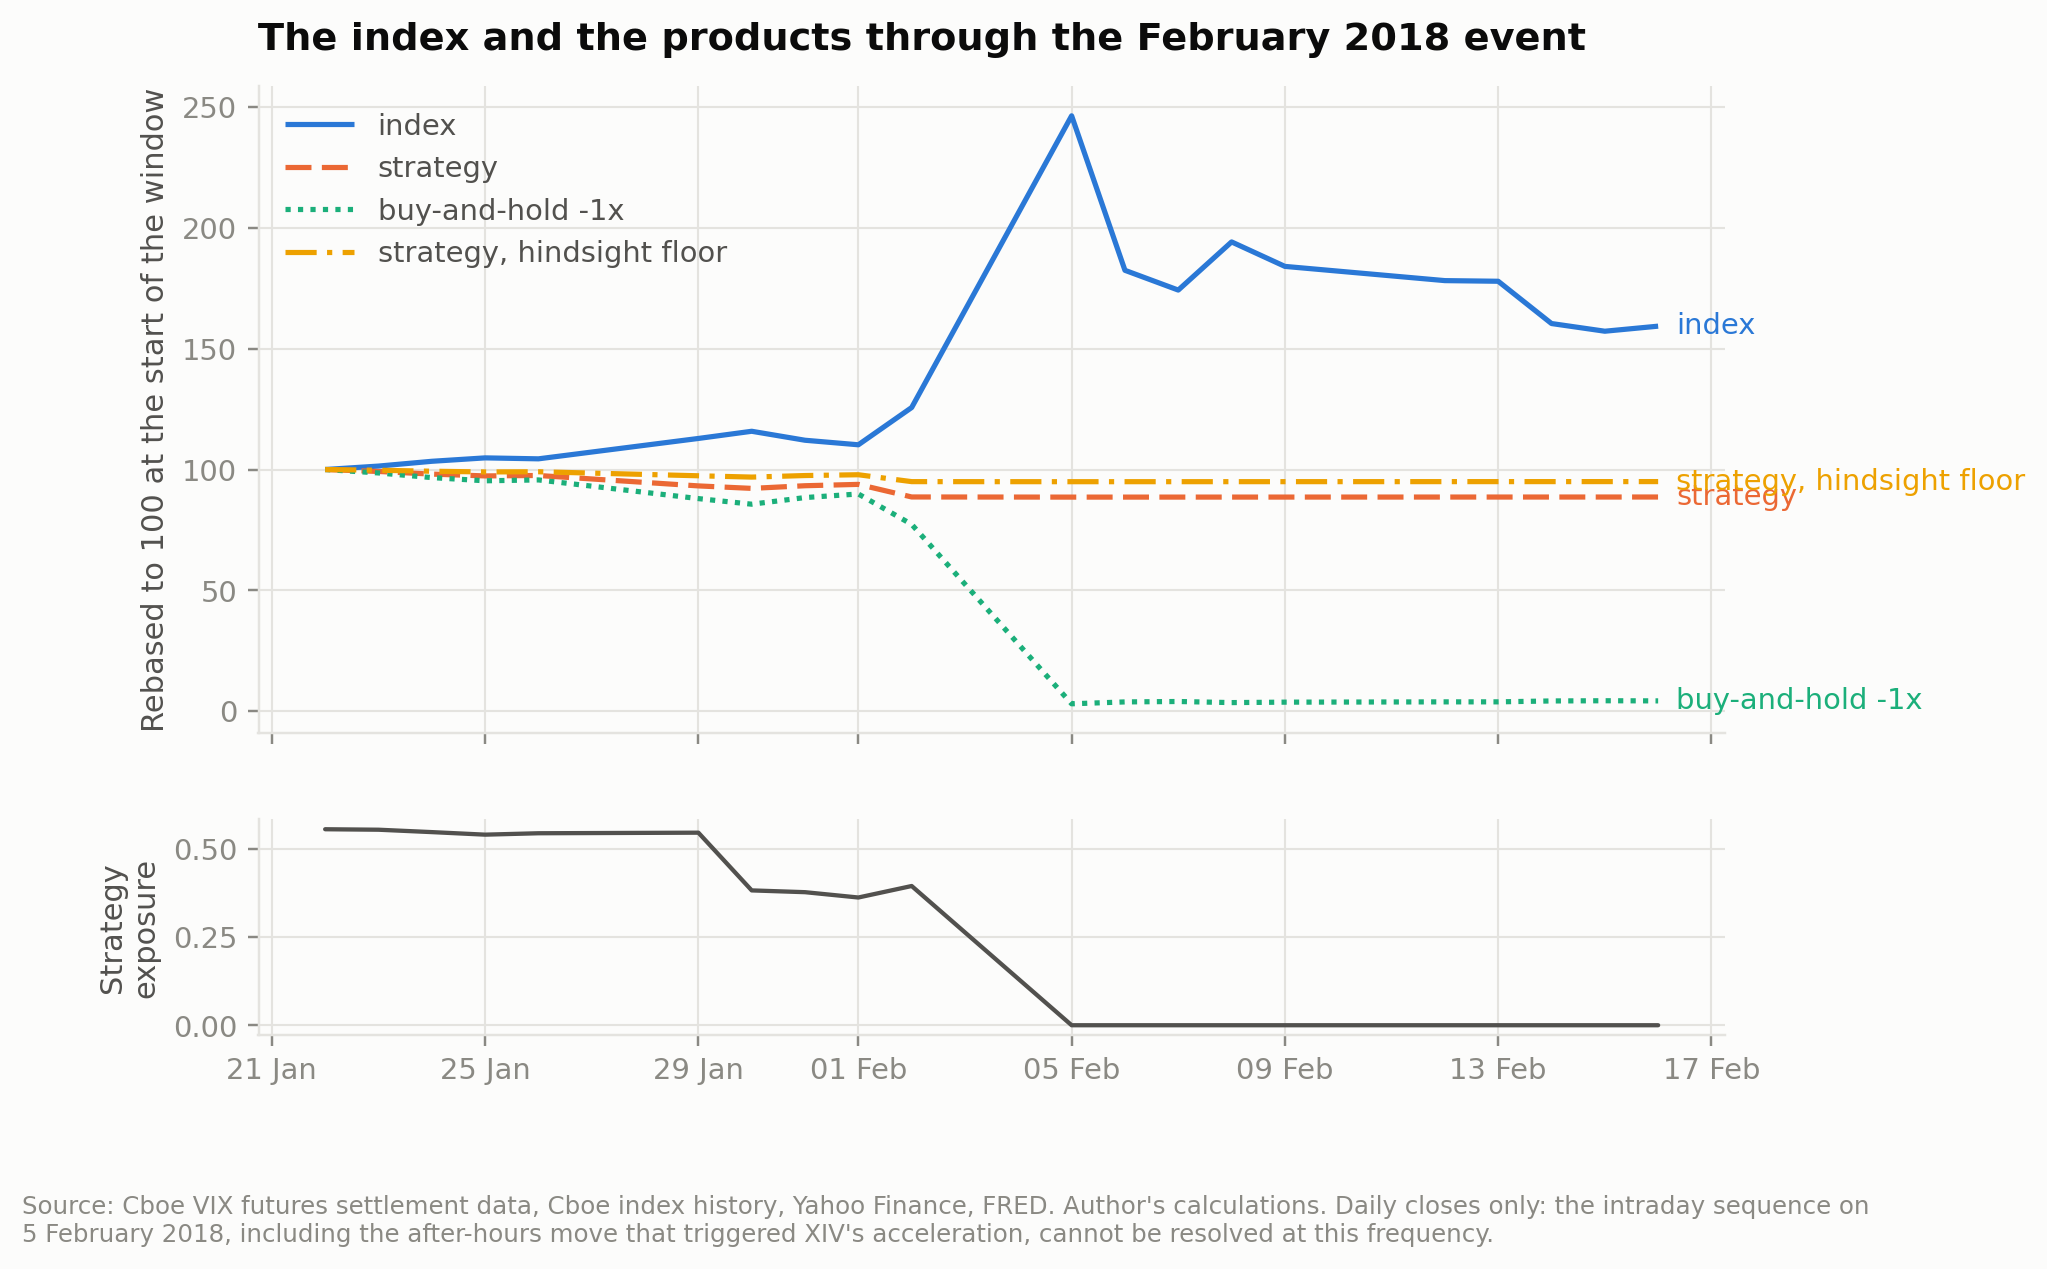
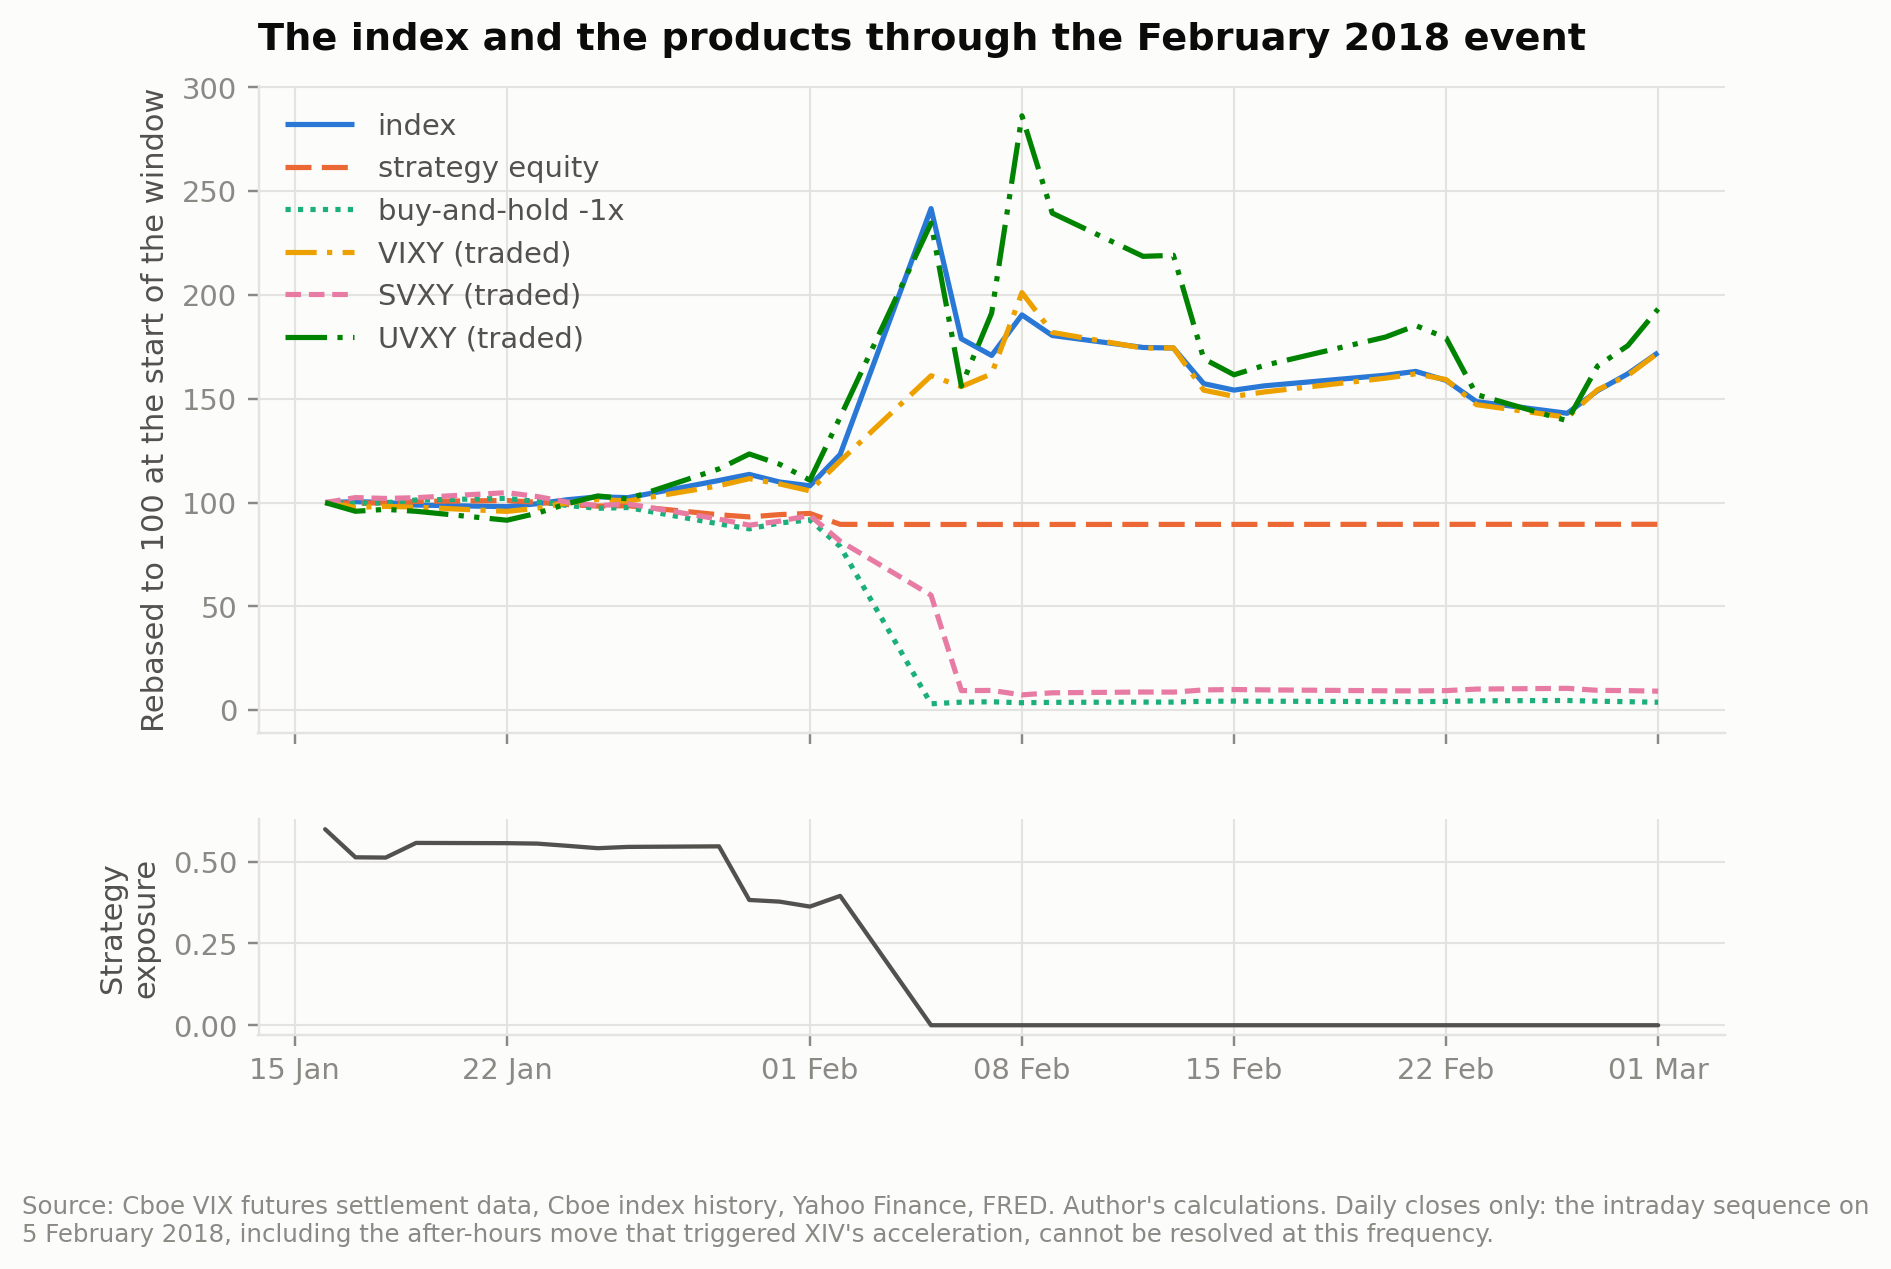
Phase 15: clean-clone reproduction, two defects it found, project log
The reproduction test the phase prompt asks for, run and recorded as V36.
What a clone reproduces: 245 tests, the number check, 20 of 24 figures. What it
does not: anything needing the 338 gitignored raw files - the pipeline stops
with exit code 2 and names the fetch command rather than downloading implicitly.

Two defects found:

1. Three committed figures were not the output of the code that builds them.
   feb2018_detail, rolling_sharpe and weight_and_binding_constraint were last
   written in Phase 11 (9ed5840) while viz/figures.py changed in Phase 14
   (7ca64e4); a full rebuild gave byte-identical output for the other 21 and
   different output for these three. Rebuilt, each read and checked against the
   claims it supports, committed. Second instance in this project of a "the
   script ran, therefore the artefact is current" assumption being wrong.

2. shade_windows placed every stress label on one row, so volmageddon 2018 and
   covid 2020 printed on top of each other. The first fix compared the gap
   between windows against ax.get_xlim() and did nothing, because shade_windows
   runs before the data is plotted and the limits are still matplotlib's default
   (0, 1). The working version defers to draw time and compares rendered text
   extents. New test, mutation-checked: it fails on the pre-fix behaviour.
   The same latent assumption in the open-window branch is recorded as open
   item 8 rather than changed without a case to test it against.
[…]

diff --git a/src/svcarry/viz/style.py b/src/svcarry/viz/style.py
@@ -214,16 +214,47 @@ def shade_windows(ax, windows: "dict[str, tuple]", label: bool = True, alpha: fl
     ``windows`` maps a label to ``(start, end)``; ``end`` may be ``None`` for an
     open window. Shading sits behind the grid so it never competes with the series.
     """
-    for i, (name, (lo, hi)) in enumerate(windows.items()):
+    texts = []
+    for name, (lo, hi) in windows.items():
         x0 = pd.Timestamp(lo)
         x1 = pd.Timestamp(hi) if hi else ax.get_xlim()[1]
         ax.axvspan(x0, x1, color=INK["stress"], zorder=0, alpha=alpha, lw=0)
         if label:
-            ax.annotate(
+            texts.append(ax.annotate(
                 name.replace("_", " "), xy=(x0, 1.0), xycoords=("data", "axes fraction"),
                 xytext=(2, -10), textcoords="offset points", fontsize=8,
                 color=INK["muted"], rotation=0, ha="left", va="top",
-            )
+            ))
+
+    if texts:
+        _stagger_on_draw(ax, texts)
+
+
+def _stagger_on_draw(ax, texts, row_height: float = 11.0) -> None:
+    """Drop a label onto a lower row when it would overlap the one before it.
+
+    The decision needs the rendered width of each label and the final axis limits,
+    and neither exists when ``shade_windows`` is called - it runs before the data is
+    plotted, so ``ax.get_xlim()`` is still matplotlib's default ``(0, 1)``. So the
+    check is deferred to draw time, where both are known, and measured in display
+    coordinates against the actual text extents rather than guessed from a gap
+    threshold in data units.
+    """
+    def place(_event=None):
+        renderer = ax.figure.canvas.get_renderer()
+        for t in texts:                       # measure every label on the top row
+            t.set_position((t.get_position()[0], -10.0))
+        prev_right, prev_row = None, 0
+        for t in texts:
+            box = t.get_window_extent(renderer=renderer)
+            row = 0
+            if prev_right is not None and box.x0 < prev_right:
+                row = 1 - prev_row            # collides: use the other row
+            t.set_position((t.get_position()[0], -10.0 - row_height * row))
+            prev_right, prev_row = box.x1, row
+
+    ax.figure.canvas.mpl_connect("draw_event", place)
+    ax._svcarry_stagger = place               # keep a handle for tests and re-draws
 
 
 def format_date_axis(ax, fmt: str | None = None) -> None:

diff --git a/tests/test_viz.py b/tests/test_viz.py
@@ -23,6 +23,7 @@ from svcarry.viz.style import (
     apply_style,
     greyscale_check,
     series_style,
+    shade_windows,
 )
 
 
@@ -349,3 +350,37 @@ def test_index_vs_products_clips_the_residual_axis_and_says_so():
     assert rax.get_ylim()[0] > -0.6 * 1e4, "the outlier must not set the axis"
     note = " ".join(t.get_text() for t in fig.texts)
     assert "clipped" in note and "6,200" in note.replace("-6,200", "6,200")
+
+
+def test_stress_labels_stagger_when_windows_are_close_together():
+    """volmageddon 2018 and covid 2020 sit close enough on a 2008-2026 axis that one
+    label lands on top of the other. The check runs at draw time, because
+    shade_windows is called before the data is plotted and so cannot know either the
+    axis limits or the rendered width of a label.
+    """
+    import matplotlib.pyplot as plt
+
+    fig, ax = plt.subplots(figsize=(9.5, 4.6))
+    shade_windows(ax, {
+        "gfc_2008": ("2008-09-01", "2008-12-31"),
+        "euro_2011": ("2011-08-01", "2011-10-31"),
+        "volmageddon_2018": ("2018-01-26", "2018-02-28"),
+        "covid_2020": ("2020-02-19", "2020-04-30"),
+    })
+    idx = pd.bdate_range("2008-01-02", "2026-09-18")
+    ax.plot(idx, np.arange(len(idx)))
+    fig.canvas.draw()
+
+    rows = {t.get_text(): round(t.get_position()[1], 3) for t in ax.texts}
+    assert rows["gfc 2008"] == rows["euro 2011"], \
+        "windows far apart share the top row"
+    assert rows["covid 2020"] != rows["volmageddon 2018"], \
+        "windows close together must not collide"
+
+    # and the labels really do not overlap once placed
+    r = fig.canvas.get_renderer()
+    boxes = {t.get_text(): t.get_window_extent(renderer=r) for t in ax.texts}
+    v, c = boxes["volmageddon 2018"], boxes["covid 2020"]
+    assert c.x0 < v.x1, "this test is only meaningful while the two would collide"
+    assert (c.y0 >= v.y1) or (v.y0 >= c.y1), "the two labels still overlap"
+    plt.close(fig)

diff --git a/docs/validation.md b/docs/validation.md
@@ -1193,6 +1193,61 @@ total return (the windows are losses: -8.9%, -4.8%, -3.2% against a total of +68
 
 ---
 
+## V36. Clean-clone reproduction (Phase 15)
+
+The repository was cloned to a fresh directory and exercised as a reader would. What
+happened, in full, including the two defects it found.
+
+**What reproduces from the clone alone.**
+
+| Step | Result |
+|---|---|
+| `python scripts/run_tests.py` | **245 passed, 2 skipped** — identical to the source tree |
+| `python scripts/check_results_numbers.py` | **passes** — every number in the four write-ups matches its committed table |
+| `python scripts/make_figures.py` | **20 of 24 figures rebuild**; 4 fail with a clear message |
+| `python scripts/run_pipeline.py --only clean` | stops with exit code **2** and names the command to run |
+
+**What does not, and why that is correct.** `data/raw/` is gitignored, so a clone holds
+the manifest but not the 338 raw files. The pipeline does not download implicitly: the
+clean stage stops with
+
+> Missing raw VIX futures files: data/raw/cboe/vx → run: `python scripts/fetch_data.py --only futures`
+
+and explains that every input must come through `fetch_data.py` so that its URL,
+retrieval time and SHA-256 are recorded. Four figures (`index_vs_products`,
+`decay_regression`, `decay_blocks`, `feb2018_detail`) read cached product price files
+rather than a processed CSV, so they fail the same way and `make_figures.py` exits 1.
+That is the intended behaviour, not a reproduction failure: the alternative is a figure
+built from data whose provenance was never recorded.
+
+**Defect 1: three committed figures were stale.** Rebuilding all 24 figures produced
+byte-identical output for 21 and *different* output for `feb2018_detail`,
+`rolling_sharpe` and `weight_and_binding_constraint`. The cause is a Phase 14 gap, not
+non-determinism: those three were last written in Phase 11 (commit 9ed5840), while
+`viz/figures.py` changed in Phase 14 (7ca64e4), so the figures in the repository were
+not the output of the code that builds them. Rebuilt and committed in Phase 15. Three
+consecutive rebuilds now give byte-identical output, and the rebuilt versions were each
+read and checked against the claims they support.
+
+**Defect 2: `shade_windows` measured the axis before there was one.** The stress-window
+labels all sit on one row, so `volmageddon 2018` and `covid 2020` — about two years
+apart on an eighteen-year axis — printed on top of each other. A first fix compared the
+gap between windows against `ax.get_xlim()`, which looked right and did nothing, because
+`shade_windows` is called *before* the data is plotted: the limits are still matplotlib's
+default `(0, 1)`, so every gap measured as enormous. (The same latent assumption sits in
+the open-window branch, which resolves `hi=None` to `get_xlim()[1]`; it is not exercised
+by any current figure and is left as a known limitation rather than changed untested.)
+The working fix defers the decision to draw time and compares the labels' *rendered*
+extents, which is the only point at which both the limits and the text width exist. A
+test asserts the labels do not overlap and fails on the pre-fix behaviour.
+
+**What this test does not establish.** That the tables themselves reproduce from raw
+data — that needs the 338 raw files, which this environment cannot fetch (see the note
+in `README.md`). The clone test establishes that the code, the tests, the number checks
+and 20 of the 24 figures reproduce from what the repository actually contains.
+
+---
+
 ## Open items
 
 1. The 2016 and 2019 steps in V6 are not explained.
@@ -1210,3 +1265,7 @@ total return (the windows are losses: -8.9%, -4.8%, -3.2% against a total of +68
 7. Why a 21-day rebalance does better than a daily one (0.42 against 0.27) is not
    established: lower costs and a lucky alignment around February 2018 both
    contribute, and this sample cannot separate them.
+8. `shade_windows` resolves an open window's right edge with `ax.get_xlim()[1]`, which
+   is matplotlib's default `(0, 1)` when the function is called before the data is
+   plotted (V36, defect 2). No current figure passes an open window, so the path is
+   unexercised; it is recorded rather than changed without a case to test it against.

diff --git a/docs/project_log.md b/docs/project_log.md
@@ -981,3 +981,74 @@ leaves 18 rows both times.
 ### Next
 
 Phase 15 — documentation and the report.
+
+---
+
+## Session 12 — 24 September 2026
+
+**Phase 15 — documentation and report.** The phase prompt's instruction was to write the
+key findings first: "If that section cannot be written clearly, the project is not
+finished." It could, in three sentences, and they are now the opening of the report, the
+README and the one-page summary, saying the same thing in the same numbers.
+
+### Written
+
+* `reports/report.md` — the full write-up. Introduction, institutional background built
+  from the 28 verified filing terms, data with its three hazards, methodology, results in
+  seven findings, robustness and red-team, discussion, limitations, conclusion,
+  references.
+* `reports/summary_one_page.md` — question, method, three findings, one caveat.
+* `README.md` — key findings with numbers matching `docs/results.md`; a main-outputs
+  section; limitations rewritten to name the weaknesses actually found (grid median 0.06,
+  the constant short's 0.40, the 0.72% margin, the 2.05-tick breakeven, H3's unmet
+  magnitude) rather than the generic ones written before any results existed.
+
+### The number check now covers everything
+
+`scripts/check_results_numbers.py` was written in Phase 13 for `docs/results.md`. It now
+asserts the report, the summary and the README as well — 28 further assertions covering
+filing-term coverage, the sample span, the roll-convention evidence, the ex-ante GARCH
+and EVT parameters, the warning path date by date, the probability ratio across the whole
+threshold grid, and the red-team answers the report quotes.
+
+It caught one error immediately: the report said 24 verified filing terms and the table
+holds 28. The table was right.
+
+### The clean-clone reproduction found two defects
+
+Recorded in full as V36. In summary:
+
+* **Three committed figures were not the output of the code that builds them.**
+  `feb2018_detail`, `rolling_sharpe` and `weight_and_binding_constraint` were last
+  written in Phase 11; `viz/figures.py` changed in Phase 14. Rebuilding produced
+  byte-identical output for the other 21 and different output for these three. Rebuilt,
+  inspected against the claims they support, and committed. This is the second time a
+  "the script ran, therefore the artefact is current" assumption has been wrong in this
+  project, after the stale bundle in Phase 09.
+* **A fix that looked right and did nothing.** The stress-window labels collided
+  (`volmageddon 2018` over `covid 2020`). The first fix compared the gap between windows
+  against `ax.get_xlim()` — but `shade_windows` runs *before* the data is plotted, so the
+  limits were still `(0, 1)` and every gap measured as enormous. The figure came back
+  unchanged, which is the only reason it was caught. The working version defers to draw
+  time and compares rendered text extents. Mutation-checked: the test fails on the
+  pre-fix behaviour.
+
+What a clone reproduces: 245 tests, the number check, and 20 of 24 figures. What it does
+not: anything needing the 338 raw files, which are gitignored by design — the pipeline
+stops with exit code 2 and names the command to run rather than downloading implicitly.
+
+### Divergences from the prompt pack, this phase
+
+* The prompt asks for an 8–10 page report; `reports/report.md` is about that length in
+  print but is written as a repository document with tables and links rather than as a
+  paginated PDF. No PDF is produced, because every number in it is asserted against a
+  live table by a script and a PDF would freeze that link.
+* The prompt asks to "update the prompt pack where execution diverged". The divergences
+  from earlier phases were already recorded where they happened — the running-max stress
+  floor replacing the event floor (M8), SPY rather than SPX for the variance proxy (M7),
+  the log-HAR target correction (V20a). This session added no new methodological
+  divergence, so the pack is unchanged beyond this note.
+
+### Next
+
+Phase 16 — final audit.
